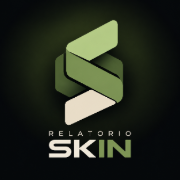
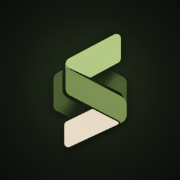
Ícone novo do app e layout global para celular
- Ícone do PWA só com o símbolo "S" (legível na tela inicial), maskable
  dentro da área segura, favicons e apple-touch-icon com a mesma arte.
  Arquivos com nomes novos (assets/app/) para os celulares trocarem o ícone.
- assets/css/mobile-2026.css em todas as páginas (injetado pelo script de
  conta e ligado nas páginas públicas): campos com 16 px (sem zoom no
  iPhone), selects e mídias contidos, tabelas com rolagem própria, modais
  como folha inferior, linhas de formulário que quebram, "← Início" da
  Casavequia/Hermínio sem cobrir o logo.
- Ajustes no perfil e no painel AEE (código do aluno, filtros, ações).
- Auditoria em 390 e 360 px: nenhuma página com rolagem lateral.

Changed region(s): [[0.25, 0.1111, 0.75, 0.8889]]

diff --git a/assets/css/mobile-2026.css b/assets/css/mobile-2026.css
@@ -1,0 +1,54 @@
+/* ═══════════════════════════════════════════════════════════════════════
+   mobile-2026.css — ajustes globais para celular (21/09/2026)
+   Carregado em todas as páginas com conta por supabase-report-sync.js e,
+   à mão, nas páginas públicas. Só regras gerais e seguras: cada página
+   continua com o próprio layout responsivo.
+   ═══════════════════════════════════════════════════════════════════════ */
+html { -webkit-text-size-adjust: 100%; text-size-adjust: 100%; }
+img, video, canvas, iframe, svg { max-width: 100%; }
+select { max-width: 100%; }
+
+@media (max-width: 760px) {
+  /* iPhone dá zoom sozinho em campo com fonte menor que 16 px (a tela fica
+     desalinhada depois de digitar). */
+  input:not([type=checkbox]):not([type=radio]):not([type=range]):not([type=color]):not([type=file]),
+  select, textarea { font-size: 16px !important; }
+
+  /* Toque mais fácil e sem o atraso do duplo toque. */
+  a, button, label, select, summary, [role=button] { touch-action: manipulation; }
+  button, .md-btn, .btn, .nb, .itab, .ck-btn { -webkit-tap-highlight-color: rgba(0,0,0,.08); }
+
+  /* Textos longos (e-mails, links, códigos) quebram em vez de vazar. */
+  p, li, td, th, dd, .md-card, .aee-bloco, .ct, .od { overflow-wrap: anywhere; }
+
+  /* Tabelas largas rolam dentro do próprio bloco. */
+  .md-tabela, .aee-tab, .md-rel table, .tabela { display: block; overflow-x: auto; -webkit-overflow-scrolling: touch; }
+  .md-tabela tbody, .aee-tab tbody, .md-rel table tbody { display: table; width: 100%; }
+
+  /* Janelas (modais) ocupam a tela toda com rolagem confortável. */
+  .md-ov, .ck-ov { padding: 8px !important; align-items: flex-end !important; }
+  .md-rel, .ck-jan { max-height: 92vh !important; border-radius: 16px !important; padding: 18px 16px !important; }
+
+  /* Escolas do administrador: o "← Início" fixo cobria o logo do cabeçalho e
+     o conteúdo ao rolar. No celular ele fica no topo da página e o cabeçalho
+     ganha espaço para ele. */
+  body > a[href="escolas.html"][style*="position:fixed"] {
+    position: absolute !important; top: 10px !important; left: 10px !important;
+    padding: 5px 11px !important; font-size: .78rem !important;
+  }
+  body > #modo-btns { position: absolute !important; top: 8px !important; right: 10px !important; }
+  body:has(> a[href="escolas.html"][style*="position:fixed"]) .cab-i { padding-top: 58px !important; }
+  body:has(> a[href="escolas.html"][style*="position:fixed"]) .cab-i > .escu { margin: 0 auto; }
+
+  /* Barras de abas: rolam de lado com dica de que há mais. */
+  .nav-i { scroll-snap-type: x proximity; -webkit-mask-image: linear-gradient(90deg, #000 88%, transparent); mask-image: linear-gradient(90deg, #000 88%, transparent); }
+  .nav-i .nb { scroll-snap-align: start; }
+
+  /* Linhas de formulário com vários campos quebram em vez de esmagar. */
+  .md-row { flex-wrap: wrap; }
+  .md-row > .md-in { min-width: 0; flex: 1 1 160px; max-width: none !important; }
+}
+
+@media (max-width: 400px) {
+  .main { padding-left: 12px !important; padding-right: 12px !important; }
+}

diff --git a/aee.html b/aee.html
@@ -20,7 +20,7 @@
 </script>
 <script defer src="assets/js/dark-mode-2026.js?v=20260921a"></script>
 <script defer src="https://cdn.jsdelivr.net/npm/@supabase/supabase-js@2"></script>
-<script defer src="assets/js/supabase-report-sync.js?v=20260921b"></script>
+<script defer src="assets/js/supabase-report-sync.js?v=20260921m"></script>
 <script defer src="assets/js/conta-skin.js?v=20260921d"></script>
 <script defer src="assets/js/meu-diario-ia.js?v=20260921b"></script>
 <style>
@@ -299,7 +299,7 @@ html.dark-2026 .st-atingida{background:var(--dark-positive-soft);color:var(--dar
 html.dark-2026 .st-revisar{background:var(--dark-negative-soft);color:var(--dark-negative)}
 html.dark-2026 .nota-b{color:var(--dark-positive)}
 html.dark-2026 .aee-sub button.on{background:linear-gradient(135deg,var(--dark-accent),var(--dark-accent-strong));color:#151719}
-@media(max-width:560px){.aee-cab-aluno{padding:14px}.aee-cab-aluno h2{font-size:1.3rem}}
+@media(max-width:560px){.aee-cab-aluno{padding:14px}.aee-cab-aluno h2{font-size:1.3rem}.aee-cab-aluno>div:last-child{align-items:flex-start!important}.aee-filtros>*{flex:1 1 100%!important}.aee-reg .ac{margin-left:0;width:100%}.aee-card{padding:12px}.md-perigo-l .md-row{width:100%}.md-perigo-l .md-row>*{flex:1 1 100%}#sec-novo .md-row>*{flex:1 1 100%}}
 </style>
 </head>
 <body>

diff --git a/perfil.html b/perfil.html
@@ -20,7 +20,7 @@
 </script>
 <script defer src="assets/js/dark-mode-2026.js?v=20260921a"></script>
 <script defer src="https://cdn.jsdelivr.net/npm/@supabase/supabase-js@2"></script>
-<script defer src="assets/js/supabase-report-sync.js?v=20260921b"></script>
+<script defer src="assets/js/supabase-report-sync.js?v=20260921m"></script>
 <script defer src="assets/js/conta-skin.js?v=20260921d"></script>
 <style>
 :root{--vd:#1a3a2a;--vm:#2d6147;--vc:#4a9467;--ou:#c9a84c;--os:#f5e6be;--ce:#2b2b2b;--cm:#5a5a5a;--ra:#c0392b;--rs:#fdecea;
@@ -107,7 +107,7 @@ html.dark-2026 .perigo h3{color:#ef8a80!important}
 html.dark-2026 .btn.perigo{background:rgba(185,99,93,.16)!important;color:#ef8a80!important;border-color:#7a3530!important}
 html.dark-2026 .btn.pri{background:linear-gradient(135deg,#ffa65b,#ff8f3a)!important;color:#151719!important;border-color:#ffa65b!important}
 html.dark-2026 .btn:not(.pri):not(.perigo){background:var(--sup2)!important;color:var(--ce)!important;border-color:var(--linha)!important}
-@media(max-width:560px){main{padding:20px 14px 50px}.card{padding:16px}}
+@media(max-width:560px){main{padding:20px 14px 50px}.card{padding:16px}.linha{flex-wrap:wrap}.linha input{flex:1 1 200px;min-width:0}.pg>.btn{width:100%;justify-content:center}.cab-i h1{font-size:1.1rem}}
 </style>
 </head>
 <body>

diff --git a/assets/js/supabase-report-sync.js b/assets/js/supabase-report-sync.js
@@ -24,6 +24,17 @@ window.RELATORIO_SUPABASE_CONFIG = {
 // cortesia visual: o conteúdo escrito no HTML público continua no código-fonte.
 // ═══════════════════════════════════════════════════════════════════════
 window.RelatorioSupabaseSync = (function () {
+  // Ajustes globais para celular (assets/css/mobile-2026.css) em toda página com conta.
+  (function cssMobile() {
+    try {
+      if (document.getElementById("rel-mobile-css")) return;
+      var atual = document.currentScript && document.currentScript.src;
+      var href = atual ? atual.replace(/js\/supabase-report-sync\.js.*$/, "css/mobile-2026.css?v=20260921a") : "assets/css/mobile-2026.css?v=20260921a";
+      var l = document.createElement("link");
+      l.id = "rel-mobile-css"; l.rel = "stylesheet"; l.href = href;
+      (document.head || document.documentElement).appendChild(l);
+    } catch (e) {}
+  })();
   var config = window.RELATORIO_SUPABASE_CONFIG || {};
   var clientInstance = null;
   var syncInstanceCounter = 0;

diff --git a/entrar.html b/entrar.html
@@ -14,7 +14,7 @@
 <link rel="preconnect" href="https://fonts.gstatic.com" crossorigin>
 <link href="https://fonts.googleapis.com/css2?family=Inter:wght@400;500;600;700&family=Manrope:wght@600;700;800&display=swap" rel="stylesheet">
 <script defer src="https://cdn.jsdelivr.net/npm/@supabase/supabase-js@2"></script>
-<script defer src="assets/js/supabase-report-sync.js?v=20260921a"></script>
+<script defer src="assets/js/supabase-report-sync.js?v=20260921m"></script>
 <style>
 :root{--bg:#0D0E0D;--card:#181B17;--line:#30352D;--tx:#F3F1E9;--tx2:#B6B7AE;--tx3:#7E8279;--brand:#A7B58A;--brand2:#C2CE9E;
   /* Fundo que a trava da conta usa enquanto a página está fechada. */

diff --git a/projeto-detalhes.html b/projeto-detalhes.html
@@ -15,7 +15,7 @@
   <script defer src="https://www.gstatic.com/firebasejs/10.12.2/firebase-app-compat.js"></script>
   <script defer src="https://www.gstatic.com/firebasejs/10.12.2/firebase-firestore-compat.js"></script>
   <script defer src="https://cdn.jsdelivr.net/npm/@supabase/supabase-js@2"></script>
-  <script defer src="assets/js/supabase-report-sync.js?v=20260921a"></script>
+  <script defer src="assets/js/supabase-report-sync.js?v=20260921m"></script>
   <script defer src="assets/js/projetos-pessoais.js?v=20260920a"></script>
   <script defer src="assets/app-build.js?v=20260717b"></script>
   <script defer src="assets/js/app-update.js?v=20260717c"></script>

diff --git a/projetos-pessoais.html b/projetos-pessoais.html
@@ -15,7 +15,7 @@
   <script defer src="https://www.gstatic.com/firebasejs/10.12.2/firebase-app-compat.js"></script>
   <script defer src="https://www.gstatic.com/firebasejs/10.12.2/firebase-firestore-compat.js"></script>
   <script defer src="https://cdn.jsdelivr.net/npm/@supabase/supabase-js@2"></script>
-  <script defer src="assets/js/supabase-report-sync.js?v=20260921a"></script>
+  <script defer src="assets/js/supabase-report-sync.js?v=20260921m"></script>
   <script defer src="assets/js/projetos-pessoais.js?v=20260920a"></script>
   <script defer src="assets/app-build.js?v=20260717b"></script>
   <script defer src="assets/js/app-update.js?v=20260717c"></script>

diff --git a/herminio-alunos-1serie.html b/herminio-alunos-1serie.html
@@ -9,7 +9,7 @@
 <link rel="stylesheet" href="assets/css/local-font-aliases.css?v=20260717d">
 <script defer src="assets/js/dark-mode-2026.js?v=20260921a"></script>
 <script defer src="https://cdn.jsdelivr.net/npm/@supabase/supabase-js@2"></script>
-<script defer src="assets/js/supabase-report-sync.js?v=20260921a"></script>
+<script defer src="assets/js/supabase-report-sync.js?v=20260921m"></script>
 <script defer src="https://cdn.jsdelivr.net/npm/jspdf@2.5.1/dist/jspdf.umd.min.js"></script>
 <script defer src="https://cdn.jsdelivr.net/npm/jspdf-autotable@3.8.4/dist/jspdf.plugin.autotable.min.js"></script>
 <script defer src="assets/js/boletim-export.js"></script>

diff --git a/herminio-alunos-2serie.html b/herminio-alunos-2serie.html
@@ -9,7 +9,7 @@
 <link rel="stylesheet" href="assets/css/local-font-aliases.css?v=20260717d">
 <script defer src="assets/js/dark-mode-2026.js?v=20260921a"></script>
 <script defer src="https://cdn.jsdelivr.net/npm/@supabase/supabase-js@2"></script>
-<script defer src="assets/js/supabase-report-sync.js?v=20260921a"></script>
+<script defer src="assets/js/supabase-report-sync.js?v=20260921m"></script>
 <script defer src="https://cdn.jsdelivr.net/npm/jspdf@2.5.1/dist/jspdf.umd.min.js"></script>
 <script defer src="https://cdn.jsdelivr.net/npm/jspdf-autotable@3.8.4/dist/jspdf.plugin.autotable.min.js"></script>
 <script defer src="assets/js/boletim-export.js"></script>

diff --git a/herminio-alunos-3serie.html b/herminio-alunos-3serie.html
@@ -9,7 +9,7 @@
 <link rel="stylesheet" href="assets/css/local-font-aliases.css?v=20260717d">
 <script defer src="assets/js/dark-mode-2026.js?v=20260921a"></script>
 <script defer src="https://cdn.jsdelivr.net/npm/@supabase/supabase-js@2"></script>
-<script defer src="assets/js/supabase-report-sync.js?v=20260921a"></script>
+<script defer src="assets/js/supabase-report-sync.js?v=20260921m"></script>
 <script defer src="https://cdn.jsdelivr.net/npm/jspdf@2.5.1/dist/jspdf.umd.min.js"></script>
 <script defer src="https://cdn.jsdelivr.net/npm/jspdf-autotable@3.8.4/dist/jspdf.plugin.autotable.min.js"></script>
 <script defer src="assets/js/boletim-export.js"></script>

diff --git a/herminio-alunos-8-9ano.html b/herminio-alunos-8-9ano.html
@@ -9,7 +9,7 @@
 <link rel="stylesheet" href="assets/css/local-font-aliases.css?v=20260717d">
 <script defer src="assets/js/dark-mode-2026.js?v=20260921a"></script>
 <script defer src="https://cdn.jsdelivr.net/npm/@supabase/supabase-js@2"></script>
-<script defer src="assets/js/supabase-report-sync.js?v=20260921a"></script>
+<script defer src="assets/js/supabase-report-sync.js?v=20260921m"></script>
 <script defer src="https://cdn.jsdelivr.net/npm/jspdf@2.5.1/dist/jspdf.umd.min.js"></script>
 <script defer src="https://cdn.jsdelivr.net/npm/jspdf-autotable@3.8.4/dist/jspdf.plugin.autotable.min.js"></script>
 <script defer src="assets/js/boletim-export.js"></script>

diff --git a/casavequia-alunos-1serie.html b/casavequia-alunos-1serie.html
@@ -11,7 +11,7 @@
 <link rel="stylesheet" href="assets/css/casavequia-alunos.css?v=20260918b">
 <link rel="stylesheet" href="assets/css/painel-alunos-escuro.css?v=20260918a">
 <script defer src="https://cdn.jsdelivr.net/npm/@supabase/supabase-js@2"></script>
-<script defer src="assets/js/supabase-report-sync.js?v=20260921a"></script>
+<script defer src="assets/js/supabase-report-sync.js?v=20260921m"></script>
 <script src="assets/js/boletim-regras.js?v=20260917d"></script>
 <script src="assets/js/relatorio-individual.js?v=20260919a"></script>
 <script src="assets/js/notas-bimestrais.js?v=20260917e"></script>
